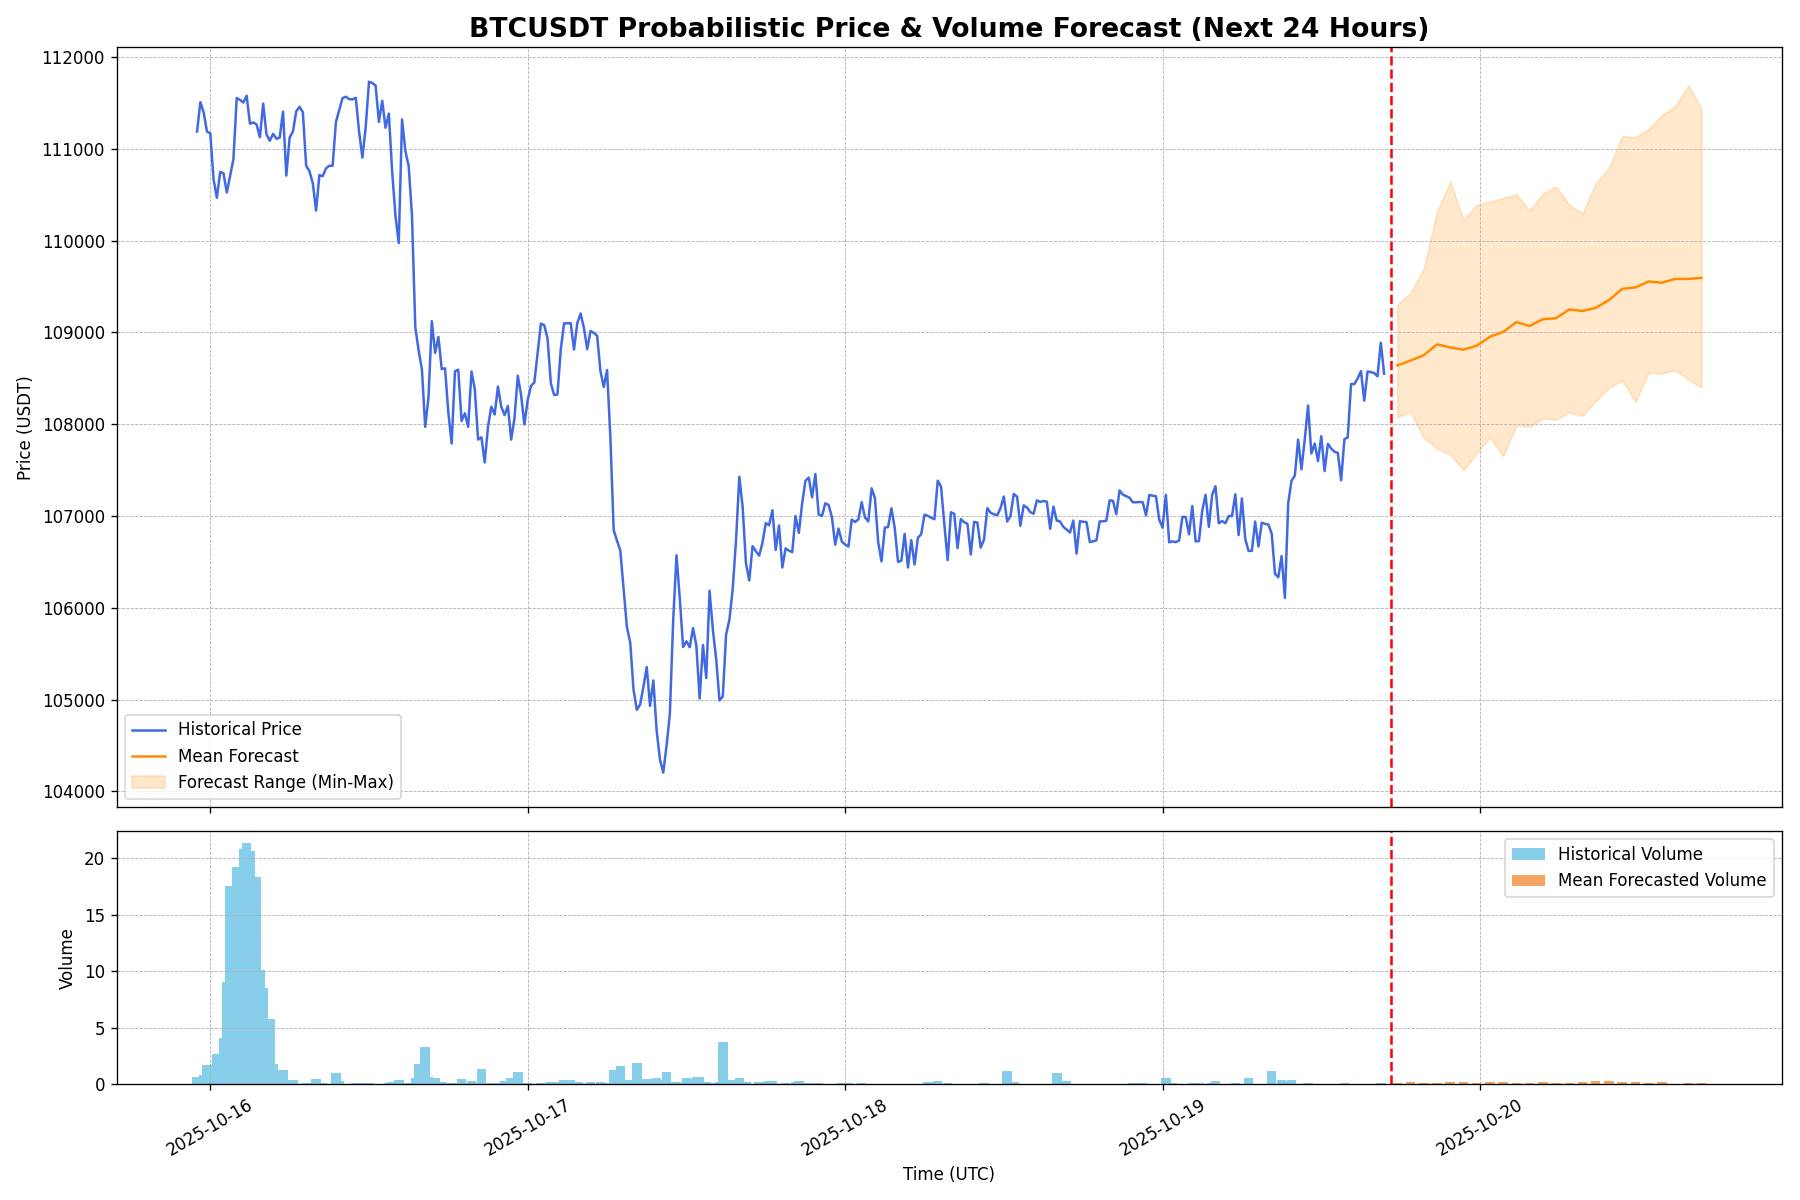
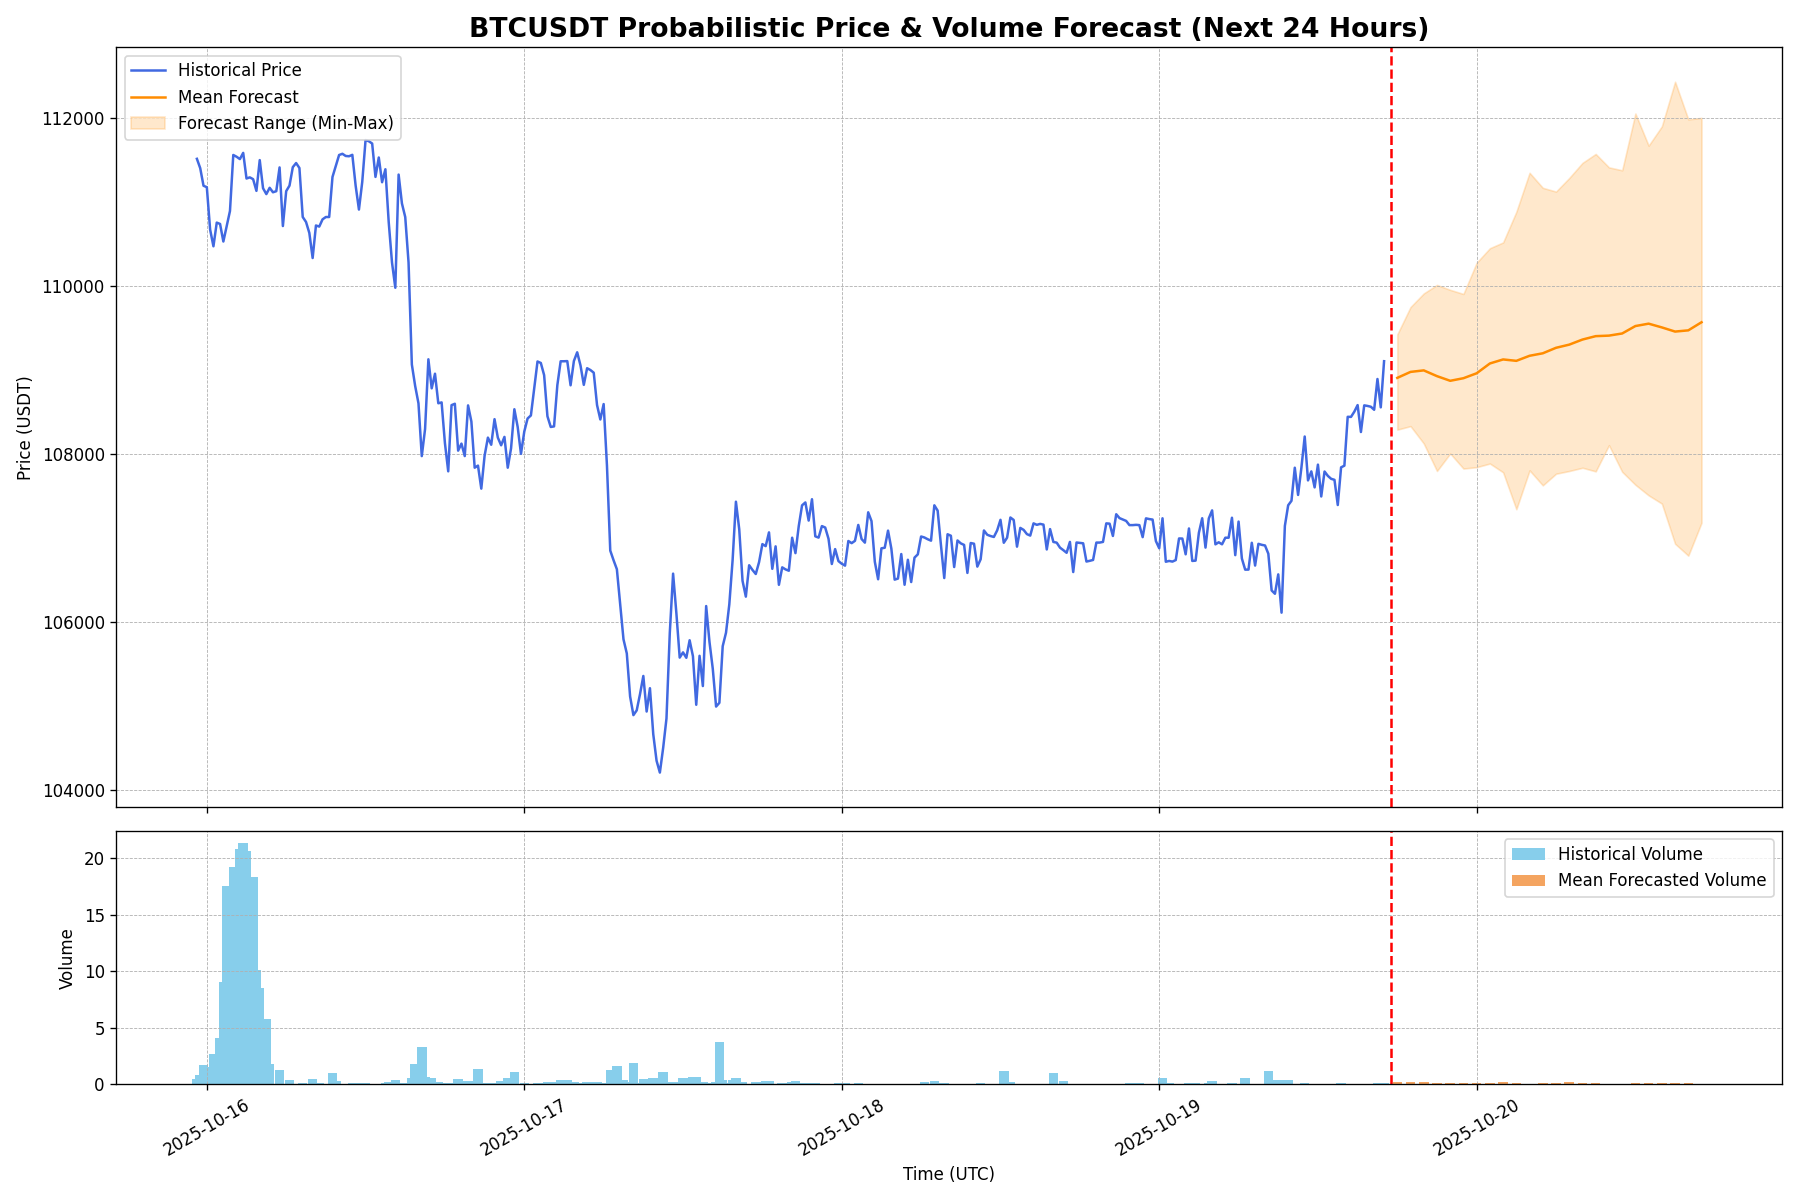
Auto-update forecast for 2025-10-19 17:21 UTC

diff --git a/index.html b/index.html
@@ -22,19 +22,19 @@
         <section id="live-dashboard">
             <h2>Live BTC/USDT Forecast Dashboard</h2>
             <div class="metadata">
-                <span>Last Updated (UTC): <strong id="update-time">2025-10-19 17:06:33</strong></span>
+                <span>Last Updated (UTC): <strong id="update-time">2025-10-19 17:21:33</strong></span>
                 <span>Data Source: Binance | Interval: 1-Hour</span>
             </div>
 
             <div class="metrics-container">
                 <div class="metric-card">
                     <h3>Upside Probability (Next 24h)</h3>
-                    <p class="metric-value" id="upside-prob">93.3%</p>
+                    <p class="metric-value" id="upside-prob">60.0%</p>
                     <div class="metric-desc">The model's confidence that the price in 24 hours will be higher than the last known price.</div>
                 </div>
                 <div class="metric-card">
                     <h3>Volatility Amplification (Next 24h)</h3>
-                    <p class="metric-value" id="vol-amp-prob">40.0%</p>
+                    <p class="metric-value" id="vol-amp-prob">56.7%</p>
                     <div class="metric-desc">The probability that predicted volatility over the next 24h will exceed recent historical volatility.</div>
                 </div>
             </div>
